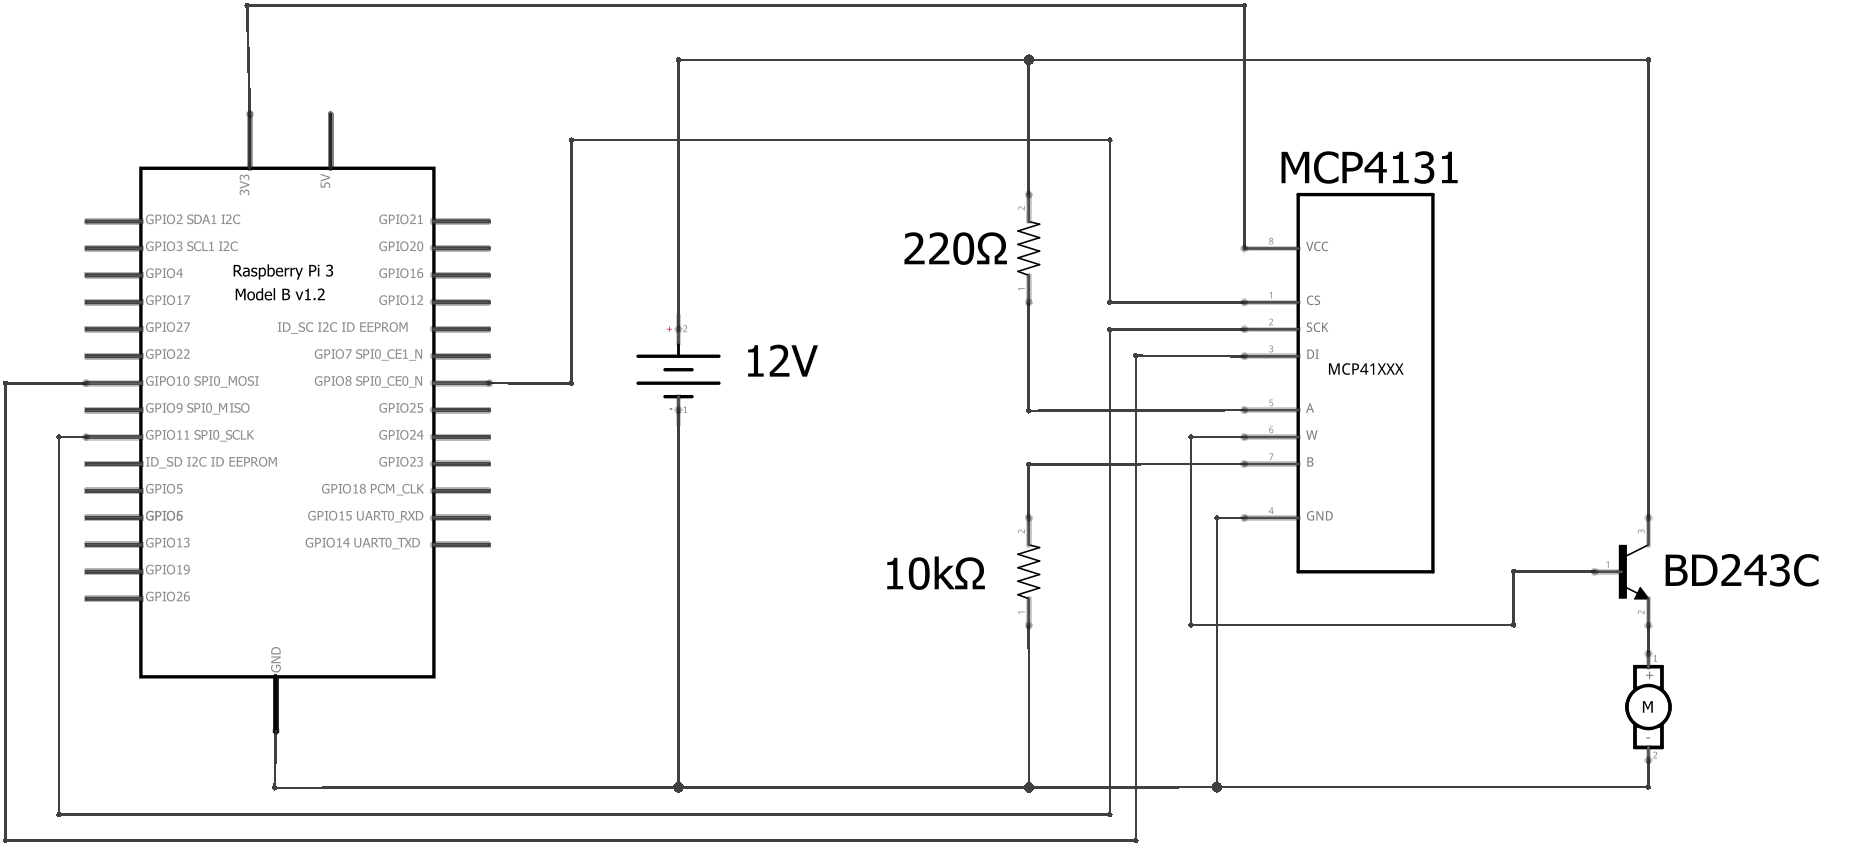
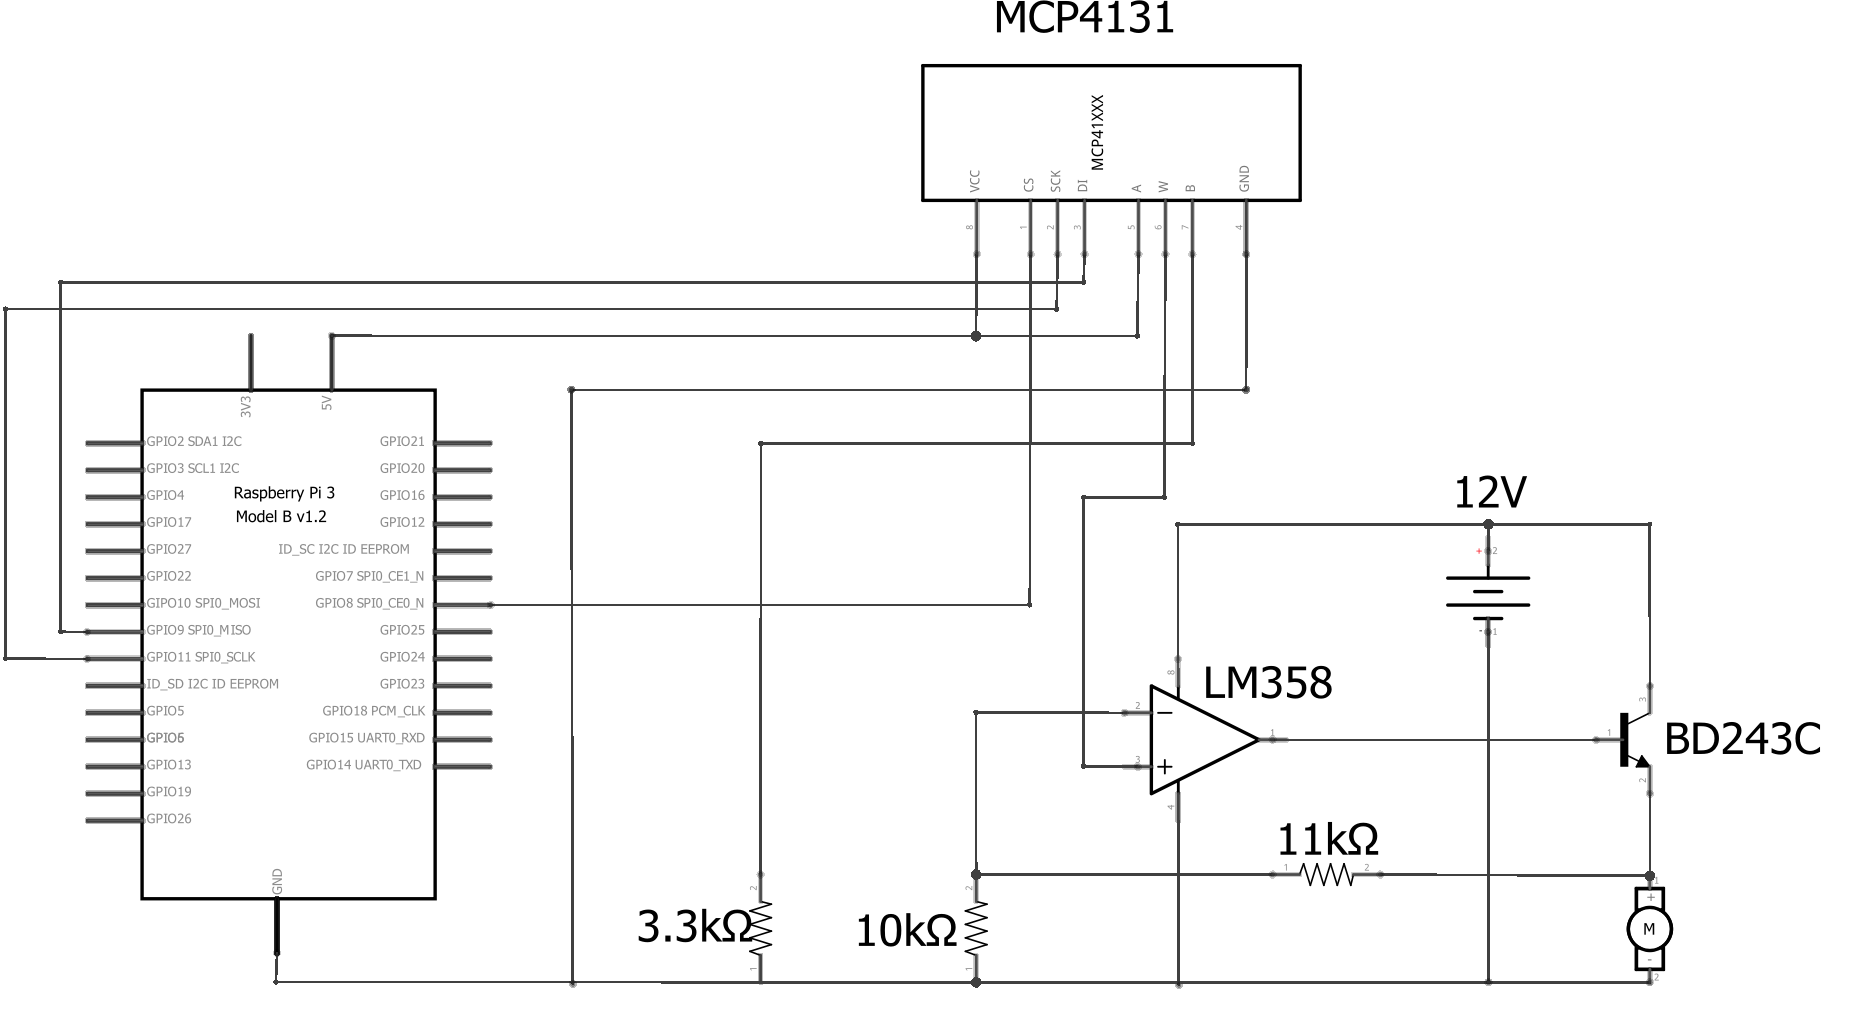
updates fixes and corrections

diff --git a/write_up/pi_report.tex b/write_up/pi_report.tex
@@ -1,7 +1,7 @@
 \documentclass[a4]{report}
 \def\atitle{Development of a Control System Using a Raspberry Pi}
 \def\theauthor{Christopher Boyle}
-\def\thewords{3549}
+\def\thewords{3790}
 
 
 % Imports
@@ -261,29 +261,22 @@
 		\label{circhall}
 	\end{figure} \newline  \noindent
 	This circuit does not measure the instantaneous rotational speed of the motor. Instead it measures the average speed. By using more magnets, and a smaller time-frame, the speed measured becomes closer to an instantaneous speed. The advantage of using this circuit is that it is simple to set up and use, other speed detection circuits require the use of lasers and photodiodes/phototransistors, or dc dynamos and analogue to digital converters. However, the main downside lies in having to attach magnets at regular intervals to the rotating cylinder, which will have to be done accurately. Another downside is the range of the hall effect sensor. The sensor must be within 10mm of the magnet for it to be able recognise it. \newline \newline \noindent
-	\iffalse
-	%Optical Sensor
-	The rotational speed of the motor is detected by aiming a laser (SERNO) at the rotating cylinder and also putting a line of reflective tape on the cylinder such that laser light reflecting off the cylinder enters a light sensor (SERNO). The value of rotational speed is discovered by detecting the number of times the cylinder makes a complete rotation in a given time span. (How photodetectors work). The sensor is simply connected to a GPIO pin on the raspberry pi, to ground, and to a 3.3v supply. Figure \ref{circhall} shows the schematic of this circuit. \newline
-	\begin{figure}[!htb]
-		\centering
-		\fbox{\includegraphics[scale=1]{images/blank.png}}
-		\caption{Circuit Schematic Diagram: Motor Speed Detection}
-		\label{circoptical}
-	\end{figure} \newline  \noindent
-	(Advantages and disadvantages of this circuit) \newline \newline \noindent
-	\fi
+
+
 	\subsection{\textit{Motor Speed Control}}
-	The speed of the motor is sent from the Raspberry Pi as a digital serial signal (using the SPI protocol). The data is sent to a digital potentiometer (MCP4131), a device which can electronically adjust the resistance between its pins. Figure \ref{circdigpotclose} highlights the resistances in the potentiometer: \(R_{AW}\) is the resistance between the A terminal pin on the potentiometer and the wiper pin and \(R_{WB}\) is the resistance between the wiper pin and the B terminal pin. The data sent to the potentiometer determines the values of \(R_{AW}\) and \(R_{WB}\), which will total a constant value (\(R_{pot} = 10,000\Omega \), in this case). The digital potentiometer is used in a voltage divider configuration, which allows the voltage in a parallel circuit to be controlled. When the resistance is changed to a new value, the voltage across the motor will change according to Equation \ref{eqnvoldiv}. A transistor (BD243C) is used to reduce the power load through the divider, protecting the digital potentiometer. \newline
+	The speed of the motor is sent from the Raspberry Pi as a digital serial signal (using the SPI protocol) to a digital potentiometer (MCP4131), a device which can electronically adjust the resistance between its pins. Figure \ref{circdigpotclose} highlights the resistances in the potentiometer: \(R_{AW}\) is the resistance between the A terminal pin on the potentiometer and the wiper pin and \(R_{WB}\) is the resistance between the wiper pin and the B terminal pin. The data sent to the potentiometer determines the values of \(R_{AW}\) and \(R_{WB}\), which will total a constant value (\(R_{pot} = 10,000\Omega \), in this case). The digital potentiometer is used in a voltage divider configuration, which allows the voltage in a parallel circuit to be controlled. When the resistance is changed to a new value, the voltage across the motor will change according to Equation \ref{eqnvoldiv}. The digital potentiometer can only handle voltages up to 5v across its terminals, an amplifier is used to boost the voltage range from 1.2v to 5v up to 2.6v to 10.5v. A transistor (BD243C) is used to boost the current output from the amplifier, which can only supply aroudn 20mA. The Transistor boosts this up to 2A, assuming a conservative gain of hFE = 100.\newline
+	
+	%%%%%%%%%% RODO
 	\begin{equation}
-		V_{out} = V_{in}\times \frac{R_2 + R_{WB}}{R_1 + R_2 + R_{pot}}
+		V_{out} = V_{in}\times \frac{R_2 + R_{WB}}{R_2 + R_{pot}}
 		\label{eqnvoldiv}
 	\end{equation}\newline
 	\begin{equation}
-		V_{min} = V_{in}\times \frac{R_2}{R_1 + R_2 + R_{pot}}
+		V_{min} = V_{in}\times \frac{R_2}{R_2 + R_{pot}}
 		\label{eqnminvol}
 	\end{equation}\newline
 	\begin{equation}
-		V_{max} = V_{in}\times \frac{R_2 + R_{pot}}{R_1 + R_2 + R_{pot}}
+		V_{max} = V_{in}\times \frac{R_2 + R_{pot}}{R_2 + R_{pot}} = V_{in}
 		\label{eqnmaxvol}
 	\end{equation}\newline \noindent
 	The Raspberry Pi sets the motor speed by setting the resistance in the digital potentiometer. The resistance is sent as a number between 0 and 127. Within the potentiometer is a network of resistors, and this number will determine the path the circuit takes through the circuit, the higher the number, the higher the resistance between the A terminal and the wiper, \(R_{AW}\). When this increases, the voltage across the bottom resistor will decrease and the voltage across the motor will mirror this. Similarly, when \(R_{AW}\) decreases, the voltage in the bottom half of the divider will increase and so will the voltage across the motor. The resistors included in addition to the digital potentiometer set the minimum and maximum values for the voltage across the motor, the minimum voltage is where the wiper resistance is essentially zero, so Equation \ref{eqnvoldiv} becomes Equation \ref{eqnminvol}. For maximum voltage, the wiper is set as high as possible (\(R_{WB} = R_{pot}\)) and Equation \ref{eqnvoldiv} becomes Equation \ref{eqnmaxvol}. \newline
@@ -296,7 +289,7 @@
 	\begin{figure}[!htb]
 		\centering
 		\fbox{\includegraphics[width=\textwidth]{images/circspeedcontr.png}}
-		\caption{Circuit Schematic Diagram: Motor Speed Control (REDO WITH UPDATED VALUES)}
+		\caption{Circuit Schematic Diagram: Motor Speed Control ADD RESISTOR NAMES}
 		\label{circspeedcontr}
 	\end{figure} \newline  \noindent
 

diff --git a/write_up/logbook.tex b/write_up/logbook.tex
@@ -108,8 +108,11 @@
 		\item Re-tested digital potentiometer, the pot sweeps from 0R to 8.9kR as expected. The circuit, however, does not provide the desired voltage for the motor. It reaches a maximum of 7-8v and then only falls as low as 5v after 30 steps, staying at 5v for the remaining ~90 (as yesterday).
 		\item Looking at alternative circuits/components.
 		\item Asked Dr. Lue for help with the circuit issue
-		\item Begin a COSHH form for the soldering activity in the lab (need more information to finish)
+		\item Begun a COSHH form for the soldering activity in the lab (need more information to finish)
 		\item Looked into possible alternative speed control circuits if the digital potentiometer circuit won't work
+		\subsection*{Thursday}
+		\item Found out why the control circuit isn't working correctly! The digital potentiometer can only handle voltages within its supply range, so a voltage of 12v is way out of range.
+		\item New design for the circuit using an operational amplifier has been found and will be tested tomorrow.
 		
 
 	\end{itemize}
